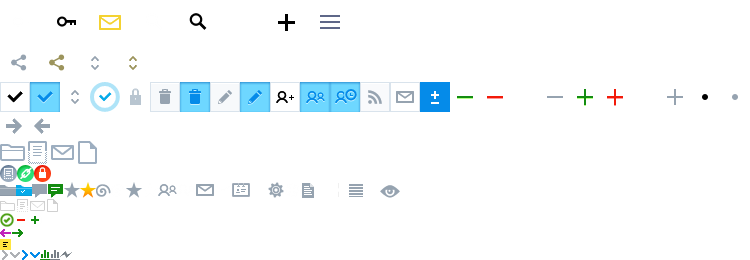
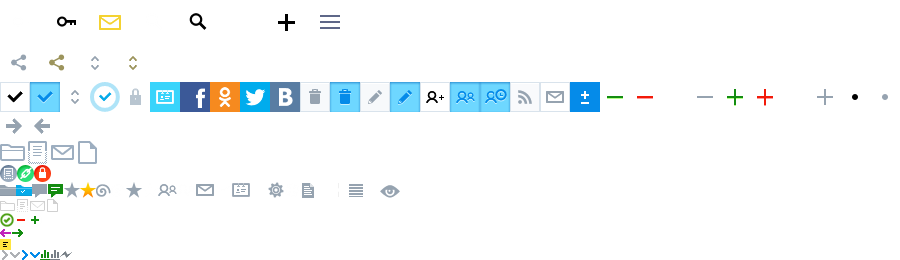
Update

diff --git a/css/common.css b/css/common.css
@@ -34,23 +34,23 @@
 .vote .vote-item i        { position: absolute; top: 0; left: 0; width: 30px; height: 30px; }
 .vote .vote-item span     { float: left; margin-left: 7px; }
 .vote .vote-up            { background: #148c11; }
-.vote .vote-up i          { background: url(../images/icons.png) -630px -82px no-repeat /* icon: vote-up-white.png */; }
+.vote .vote-up i          { background: url(../images/icons.png) -780px -82px no-repeat /* icon: vote-up-white.png */; }
 .vote .vote-up:active     { background: #95ea61; -webkit-box-shadow: 0 1px 2px #7ac447 inset; box-shadow: 0 1px 2px #7ac447 inset; }
-.vote .vote-up:active i   { background: url(../images/icons.png) -570px -82px no-repeat /* icon: vote-up-green.png */; }
+.vote .vote-up:active i   { background: url(../images/icons.png) -720px -82px no-repeat /* icon: vote-up-green.png */; }
 .vote .vote-down          { background: #f21a09; }
-.vote .vote-down i        { background: url(../images/icons.png) -510px -82px no-repeat /* icon: vote-down-white.png */; }
+.vote .vote-down i        { background: url(../images/icons.png) -660px -82px no-repeat /* icon: vote-down-white.png */; }
 .vote .vote-down:active   { background: #ff6e6e; -webkit-box-shadow: 0 1px 2px #df4040 inset; box-shadow: 0 1px 2px #df4040 inset; }
-.vote .vote-down:active i { background: url(../images/icons.png) -480px -82px no-repeat /* icon: vote-down-red.png */; }
+.vote .vote-down:active i { background: url(../images/icons.png) -630px -82px no-repeat /* icon: vote-down-red.png */; }
 .vote .vote-zero          { width: auto; padding: 0 10px 0 30px; background: #fff; -webkit-box-shadow: 0 0 1px #bec9d3 inset, -1px -1px 0 #bec9d3 inset; box-shadow: 1px 1px 0 #bec9d3 inset, -1px -1px 0 #bec9d3 inset;  }
-.vote .vote-zero i        { background: url(../images/icons.png) -690px -82px no-repeat /* icon: vote-zero.png */; }
+.vote .vote-zero i        { background: url(../images/icons.png) -840px -82px no-repeat /* icon: vote-zero.png */; }
 .vote .vote-zero:active   { background: #f2f5f8; -webkit-box-shadow: 0 1px 2px #cfd8df inset; box-shadow: 0 1px 2px #cfd8df inset; color: #96a3b0; }
-.vote .vote-zero:active i { background: url(../images/icons.png) -720px -82px no-repeat /* icon: vote-zero-zero.png */; }
+.vote .vote-zero:active i { background: url(../images/icons.png) -870px -82px no-repeat /* icon: vote-zero-zero.png */; }
 
 /* Result */
 .vote-result                                             {
 	width: 30px;
 	height: 30px;
-	background: url(../images/icons.png) -420px -82px no-repeat /* icon: vote.png */;
+	background: url(../images/icons.png) -570px -82px no-repeat /* icon: vote.png */;
 	cursor: pointer;
 	position: relative;
 	line-height: 30px;
@@ -68,16 +68,16 @@
 .vote-result.voted.vote-count-positive:before            { border-color: #69c531; }
 .vote-result.voted.vote-count-zero:before                { border-color: #ccc; }
 
-.vote-result.voted.voted-up.vote-count-negative:before   { background: url(../images/icons.png) -600px -82px no-repeat /* icon: vote-up-red.png */; }
-.vote-result.voted.voted-up.vote-count-positive:before   { background: url(../images/icons.png) -570px -82px no-repeat /* icon: vote-up-green.png */; }
-.vote-result.voted.voted-up.vote-count-zero:before       { background: url(../images/icons.png) -660px -82px no-repeat /* icon: vote-up-zero.png */; }
+.vote-result.voted.voted-up.vote-count-negative:before   { background: url(../images/icons.png) -750px -82px no-repeat /* icon: vote-up-red.png */; }
+.vote-result.voted.voted-up.vote-count-positive:before   { background: url(../images/icons.png) -720px -82px no-repeat /* icon: vote-up-green.png */; }
+.vote-result.voted.voted-up.vote-count-zero:before       { background: url(../images/icons.png) -810px -82px no-repeat /* icon: vote-up-zero.png */; }
 
-.vote-result.voted.voted-down.vote-count-negative:before { background: url(../images/icons.png) -480px -82px no-repeat /* icon: vote-down-red.png */; }
-.vote-result.voted.voted-down.vote-count-positive:before { background: url(../images/icons.png) -450px -82px no-repeat /* icon: vote-down-green.png */; }
-.vote-result.voted.voted-down.vote-count-zero:before     { background: url(../images/icons.png) -540px -82px no-repeat /* icon: vote-down-zero.png */; }
+.vote-result.voted.voted-down.vote-count-negative:before { background: url(../images/icons.png) -630px -82px no-repeat /* icon: vote-down-red.png */; }
+.vote-result.voted.voted-down.vote-count-positive:before { background: url(../images/icons.png) -600px -82px no-repeat /* icon: vote-down-green.png */; }
+.vote-result.voted.voted-down.vote-count-zero:before     { background: url(../images/icons.png) -690px -82px no-repeat /* icon: vote-down-zero.png */; }
 
-.vote-result.voted.voted-zero.vote-count-negative:before { background: url(../images/icons.png) -690px -82px no-repeat /* icon: vote-zero.png */; }
-.vote-result.voted.voted-zero.vote-count-positive:before { background: url(../images/icons.png) -690px -82px no-repeat /* icon: vote-zero.png */; }
+.vote-result.voted.voted-zero.vote-count-negative:before { background: url(../images/icons.png) -840px -82px no-repeat /* icon: vote-zero.png */; }
+.vote-result.voted.voted-zero.vote-count-positive:before { background: url(../images/icons.png) -840px -82px no-repeat /* icon: vote-zero.png */; }
 .vote-result.voted.voted-zero.vote-count-zero:before     { background: url(../images/icons/vote-zero-active.png) no-repeat; }
 
 .vote-result.vote-count-negative                         { background: #ff6e6e; -webkit-box-shadow: 0 2px 2px #df4040 inset; box-shadow: 0 2px 2px #df4040 inset; color: #f21a09; }

diff --git a/css/icons.css b/css/icons.css
@@ -23,26 +23,31 @@
 .icon-blog-more                { width: 30px; height: 30px; background-position: -60px -82px; }
 .icon-blog-owner               { width: 30px; height: 30px; background-position: -90px -82px; }
 .icon-blog-private             { width: 30px; height: 30px; background-position: -120px -82px; }
-.icon-delete                   { width: 30px; height: 30px; background-position: -150px -82px; }
-.icon-delete.active            { width: 30px; height: 30px; background-position: -180px -82px; }
-.icon-edit                     { width: 30px; height: 30px; background-position: -210px -82px; }
-.icon-edit.active              { width: 30px; height: 30px; background-position: -240px -82px; }
-.icon-friend                   { width: 30px; height: 30px; background-position: -270px -82px; }
-.icon-friend.active            { width: 30px; height: 30px; background-position: -300px -82px; }
-.icon-friend-waiting           { width: 30px; height: 30px; background-position: -330px -82px; }
-.icon-rss                      { width: 30px; height: 30px; background-position: -360px -82px; }
-.icon-send-message             { width: 30px; height: 30px; background-position: -390px -82px; }
-.icon-vote                     { width: 30px; height: 30px; background-position: -420px -82px; }
-.icon-vote-down-green          { width: 30px; height: 30px; background-position: -450px -82px; }
-.icon-vote-down-red            { width: 30px; height: 30px; background-position: -480px -82px; }
-.icon-vote-down-white          { width: 30px; height: 30px; background-position: -510px -82px; }
-.icon-vote-down-zero           { width: 30px; height: 30px; background-position: -540px -82px; }
-.icon-vote-up-green            { width: 30px; height: 30px; background-position: -570px -82px; }
-.icon-vote-up-red              { width: 30px; height: 30px; background-position: -600px -82px; }
-.icon-vote-up-white            { width: 30px; height: 30px; background-position: -630px -82px; }
-.icon-vote-up-zero             { width: 30px; height: 30px; background-position: -660px -82px; }
-.icon-vote-zero                { width: 30px; height: 30px; background-position: -690px -82px; }
-.icon-vote-zero-zero           { width: 30px; height: 30px; background-position: -720px -82px; }
+.icon-contact-default          { width: 30px; height: 30px; background-position: -150px -82px; }
+.icon-contact-facebook         { width: 30px; height: 30px; background-position: -180px -82px; }
+.icon-contact-odnoklassniki    { width: 30px; height: 30px; background-position: -210px -82px; }
+.icon-contact-twitter          { width: 30px; height: 30px; background-position: -240px -82px; }
+.icon-contact-vkontakte        { width: 30px; height: 30px; background-position: -270px -82px; }
+.icon-delete                   { width: 30px; height: 30px; background-position: -300px -82px; }
+.icon-delete.active            { width: 30px; height: 30px; background-position: -330px -82px; }
+.icon-edit                     { width: 30px; height: 30px; background-position: -360px -82px; }
+.icon-edit.active              { width: 30px; height: 30px; background-position: -390px -82px; }
+.icon-friend                   { width: 30px; height: 30px; background-position: -420px -82px; }
+.icon-friend.active            { width: 30px; height: 30px; background-position: -450px -82px; }
+.icon-friend-waiting           { width: 30px; height: 30px; background-position: -480px -82px; }
+.icon-rss                      { width: 30px; height: 30px; background-position: -510px -82px; }
+.icon-send-message             { width: 30px; height: 30px; background-position: -540px -82px; }
+.icon-vote                     { width: 30px; height: 30px; background-position: -570px -82px; }
+.icon-vote-down-green          { width: 30px; height: 30px; background-position: -600px -82px; }
+.icon-vote-down-red            { width: 30px; height: 30px; background-position: -630px -82px; }
+.icon-vote-down-white          { width: 30px; height: 30px; background-position: -660px -82px; }
+.icon-vote-down-zero           { width: 30px; height: 30px; background-position: -690px -82px; }
+.icon-vote-up-green            { width: 30px; height: 30px; background-position: -720px -82px; }
+.icon-vote-up-red              { width: 30px; height: 30px; background-position: -750px -82px; }
+.icon-vote-up-white            { width: 30px; height: 30px; background-position: -780px -82px; }
+.icon-vote-up-zero             { width: 30px; height: 30px; background-position: -810px -82px; }
+.icon-vote-zero                { width: 30px; height: 30px; background-position: -840px -82px; }
+.icon-vote-zero-zero           { width: 30px; height: 30px; background-position: -870px -82px; }
 .icon-paging-next              { width: 28px; height: 28px; background-position: -0px -112px; }
 .icon-paging-prev              { width: 28px; height: 28px; background-position: -28px -112px; }
 .icon-submit-blog              { width: 25px; height: 25px; background-position: -0px -140px; }

diff --git a/css/base.css b/css/base.css
@@ -31,7 +31,8 @@ a.link-dotted:hover { border-color: #06e; }
 h2.page-header { color: #333; font-size: 17px; line-height: 1.3em; font-weight: 600; margin-bottom: 20px; }
 h2.page-header span { color: #aaa; }
 
-h2.header-table { margin-bottom: 0; font-size: 19px; font-weight: 600; }
+h2.header-table { margin-bottom: 3px; font-size: 19px; font-weight: 600; }
+h2.header-table a { text-decoration: underline; }
 
 
 
@@ -156,13 +157,15 @@ h2.header-table { margin-bottom: 0; font-size: 19px; font-weight: 600; }
 
 /* Футер
 ---------------------------------------------------- */
-#footer                          { font-size: 11px; }
-#footer a                        { text-decoration: underline; }
-#footer .footer-inner            { border-top: 1px solid #e2e7ec; padding: 9px; }
-#footer .footer-links            { margin-bottom: 15px; }
-#footer .footer-links li         { float: left; margin-right: 15px; }
-#footer .footer-profile-links    { padding-bottom: 40px; }
-#footer .footer-profile-links li { float: left; width: 14.23%; text-align: center; }
+#footer                              { font-size: 11px; overflow: hidden; }
+#footer a                            { text-decoration: underline; }
+#footer .copyright                   { padding-right: 135px; }
+#footer .footer-inner                { border-top: 1px solid #e2e7ec; padding: 9px; }
+#footer .footer-links                { width: 135px; margin-bottom: 15px; float: right; text-align: right; }
+#footer .footer-links li:first-child { margin-left: 0; }
+#footer .footer-links li             { display: inline-block; margin-left: 15px; }
+#footer .footer-profile-links        { padding-bottom: 40px; }
+#footer .footer-profile-links li     { float: left; width: 14.23%; text-align: center; }
 
 
 /* Stat

diff --git a/css/profile.css b/css/profile.css
@@ -43,3 +43,12 @@
 
 .profile-info-photo                   { text-align: center; border-bottom: 1px solid #E1E8EF; }
 .profile-info-photo img               { vertical-align: top; max-width: 100%; }
+
+.profile-contacts                          { overflow: hidden; padding-top: 5px; }
+.profile-contacts li                       { float: left; margin-right: 10px; margin-bottom: 13px; }
+.profile-contacts li a                     { display: block; width: 30px; height: 30px; text-indent: -9999px; }
+.profile-contacts li                       { background: url(../images/icons.png) -150px -82px no-repeat /* icon: contact-default.png */; }
+.profile-contacts li.contact-vkontakte     { background: url(../images/icons.png) -270px -82px no-repeat /* icon: contact-vkontakte.png */; }
+.profile-contacts li.contact-twitter       { background: url(../images/icons.png) -240px -82px no-repeat /* icon: contact-twitter.png */; }
+.profile-contacts li.contact-odnoklassniki { background: url(../images/icons.png) -210px -82px no-repeat /* icon: contact-odnoklassniki.png */; }
+.profile-contacts li.contact-facebook      { background: url(../images/icons.png) -180px -82px no-repeat /* icon: contact-facebook.png */; }

diff --git a/css/navs.css b/css/navs.css
@@ -122,7 +122,7 @@
 .nav-foldable-wrapper .nav-foldable-trigger.active:before        { background: url(../images/icons.png) -10px -250px no-repeat /* icon: arrow-active.png */; }
 .nav-foldable-wrapper .nav-foldable-trigger.inactive             { color: #888; }
 .nav-foldable-wrapper .nav-foldable-trigger.nav-foldable-primary { border-color: #8BD0FF; color: #058be9; }
-.nav-foldable-wrapper .nav-foldable-trigger.nav-foldable-primary:before { background: url(../images/icons.png) -20px -250px no-repeat /* icon: arrow-blue.png */; opacity: .5; }
+.nav-foldable-wrapper .nav-foldable-trigger.nav-foldable-primary:before { background: url(../images/icons.png) -20px -250px no-repeat /* icon: arrow-blue.png */; }
 .nav-foldable-wrapper .nav-foldable-trigger.nav-foldable-primary.active:before { background: url(../images/icons.png) -30px -250px no-repeat /* icon: arrow-blue-active.png */; }
 .nav-foldable-wrapper .slide                                     { padding: 5px 0; border: 1px solid #eee; border-top: none; }
 .nav-foldable-wrapper .slide li                                  { padding: 10px 15px; margin: 0; }

diff --git a/css/tables.css b/css/tables.css
@@ -30,6 +30,9 @@
 .table.table-profile-info 				{ font-size: 11px; }
 .table.table-profile-info td 			{ vertical-align: top; padding: 3px 3px 3px 0; border: none; }
 .table.table-profile-info .cell-label 	{ width: 120px; }
+.table.table-profile-info .cell-latest-post { padding-top: 20px; }
+.table.table-profile-info .cell-latest-post span { color: #788087; }
+.table.table-profile-info .cell-latest-post a { text-decoration: underline; }
 
 /* Table Users */
 .table.table-users td                         { padding: 13px 0; font-size: 11px; }

diff --git a/js/template.js b/js/template.js
@@ -746,7 +746,7 @@ jQuery(document).ready(function($){
 			obj.parent().children('li').not(obj).removeClass('active');
 		}
 
-		$('.slide-trigger').removeClass('active');
+		$('.slide-trigger').not(obj).removeClass('active');
 		$('.slide').not(target).removeClass('active').hide();
 		target.slideToggle(); 
 		obj.toggleClass('active');

diff --git a/settings/language/russian.php b/settings/language/russian.php
@@ -20,6 +20,9 @@ return array(
 	'blog_admin_users_moderator' => 'мод.',
 	'blog_admin_users_reader' => 'чит.',
 	'blog_admin_users_bun' => 'бан',
+	'profile_privat' => 'Данные',
+	'profile_note_header' => 'Моя заметка',
+	'profile_latest_post' => 'Последний пост',
 );
 
 ?>
